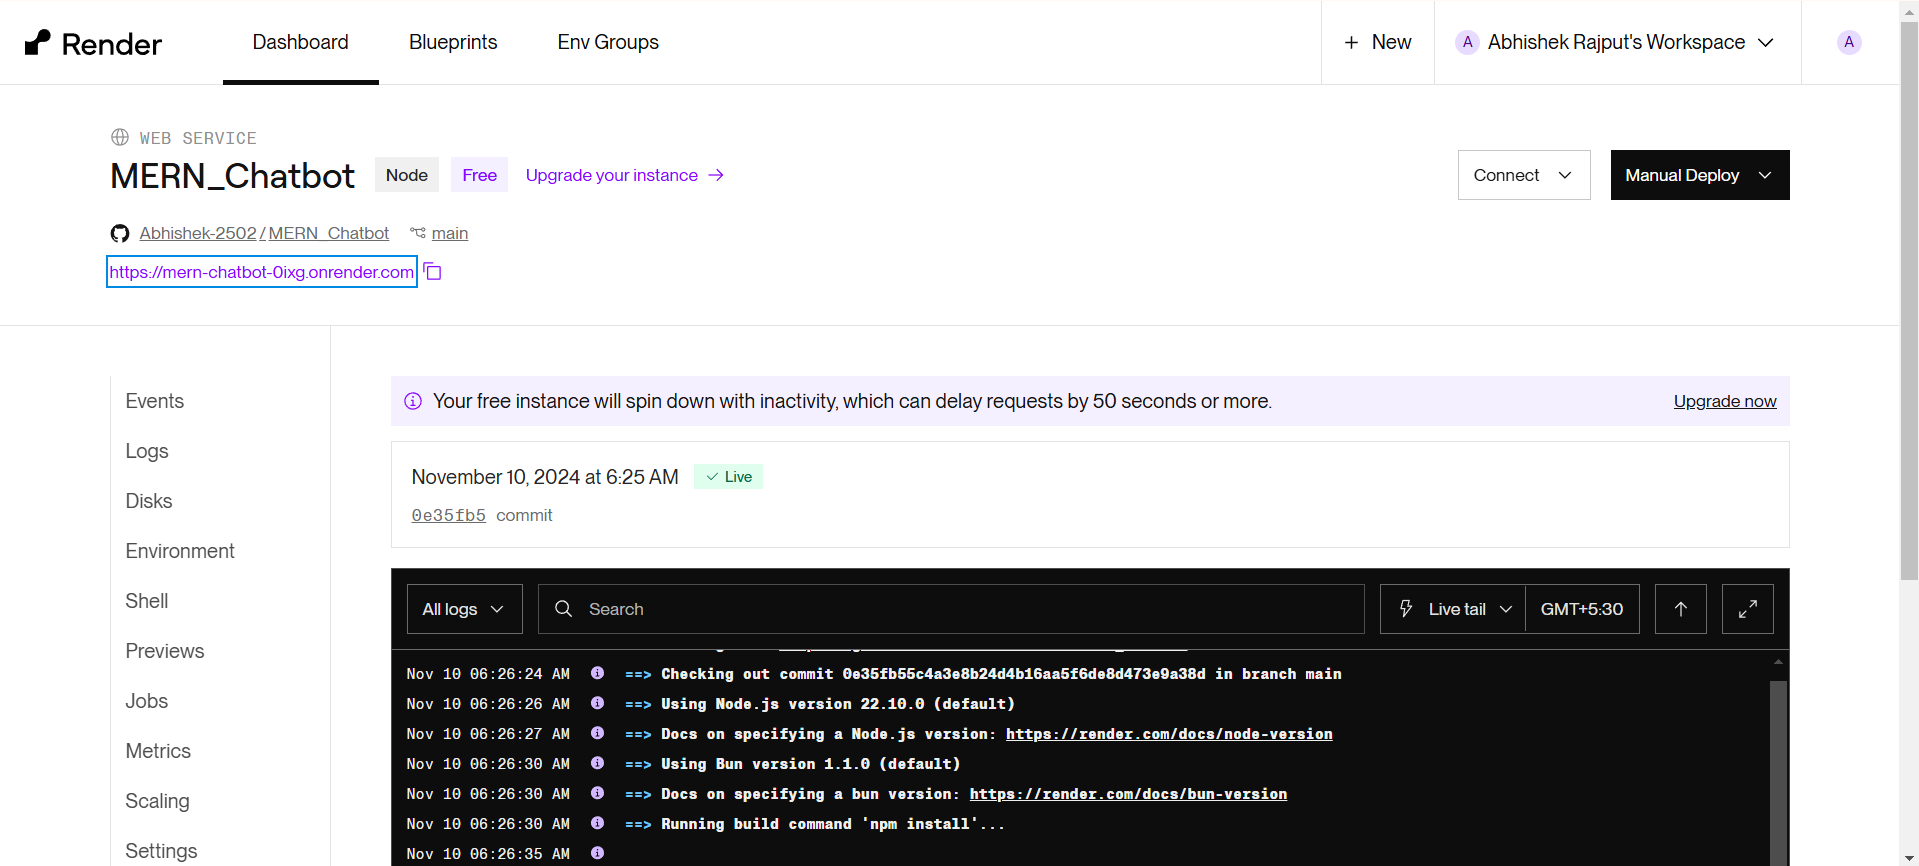
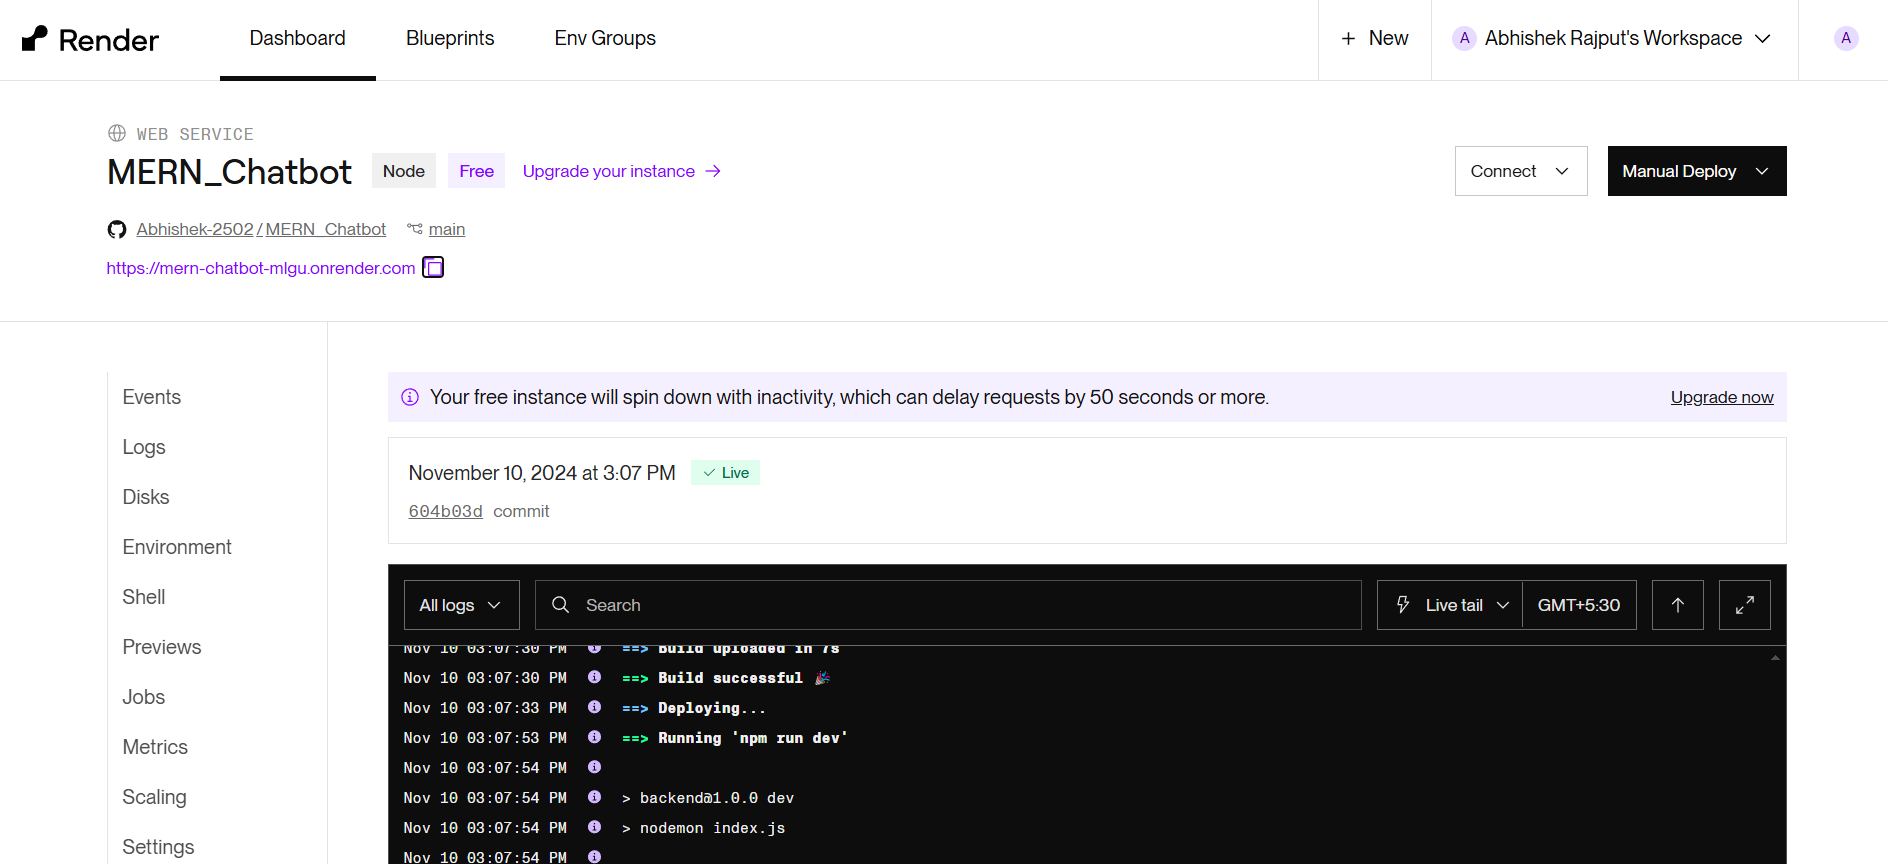
commit

diff --git a/chat-frontend/src/main.jsx b/chat-frontend/src/main.jsx
@@ -5,8 +5,8 @@ import "./index.css";
 import { UserProvider } from "./context/UserContext.jsx";
 import { ChatProvider } from "./context/ChatContext.jsx";
 
-// export const server = "http://localhost:5000";
-export const server = "https://mern-chatbot-atlas-backend.onrender.com";
+export const server = "http://localhost:5000";
+// export const server = "https://mern-chatbot-mlgu.onrender.com;
 
 ReactDOM.createRoot(document.getElementById("root")).render(
   <React.StrictMode>
